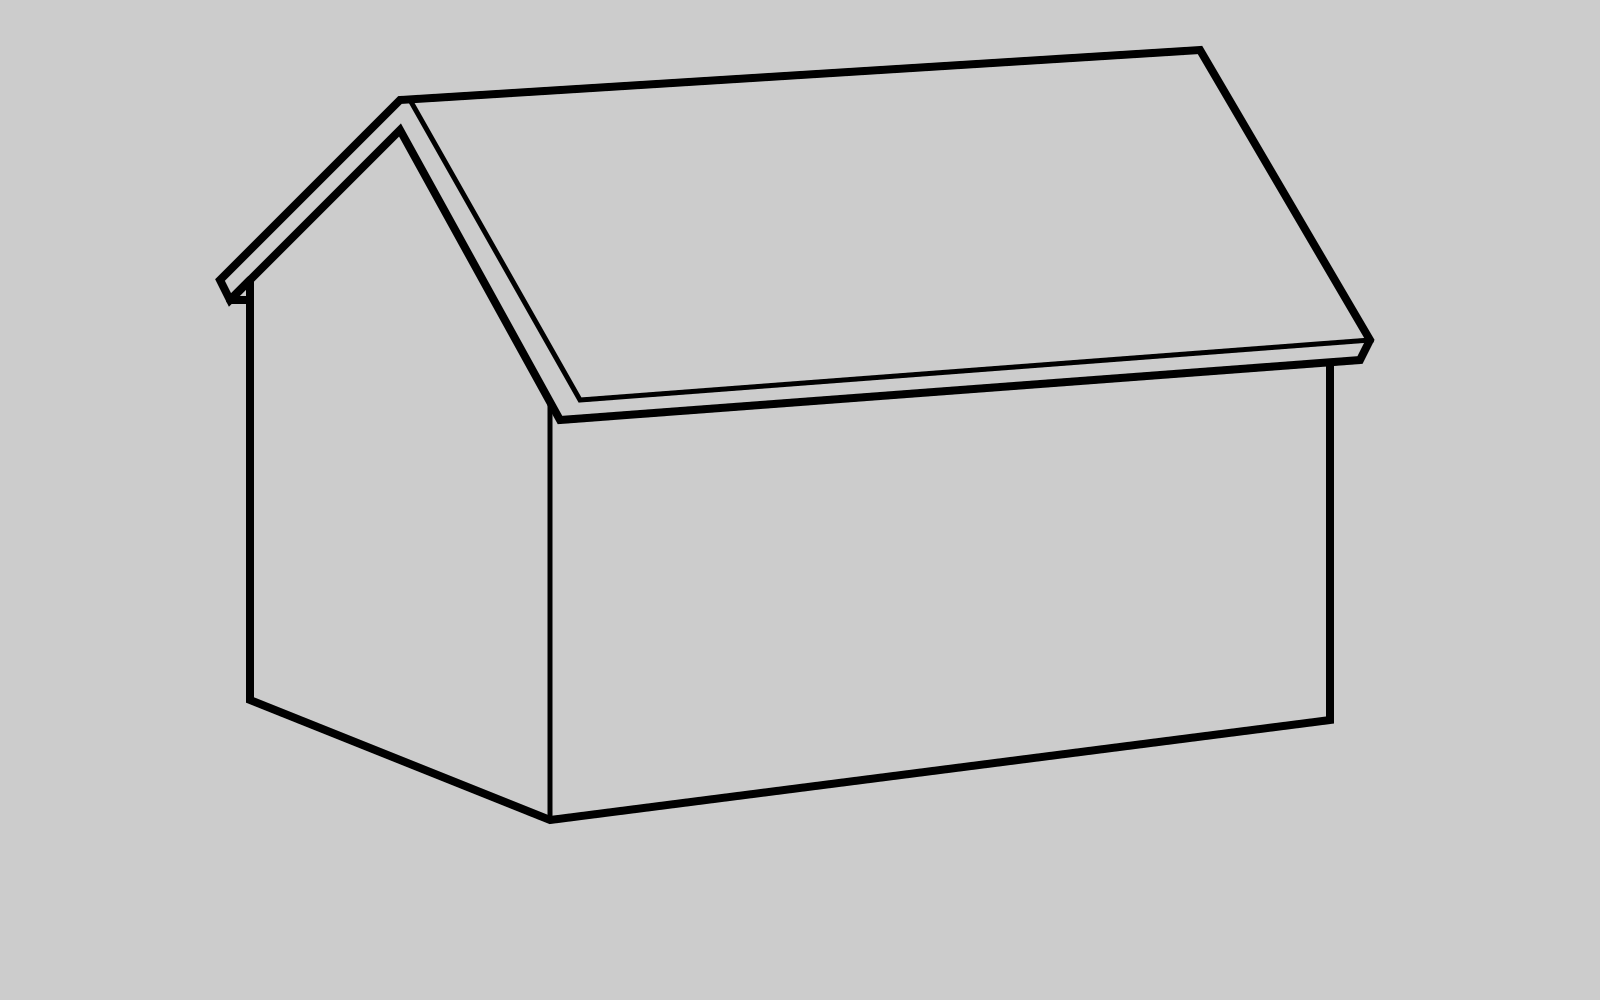
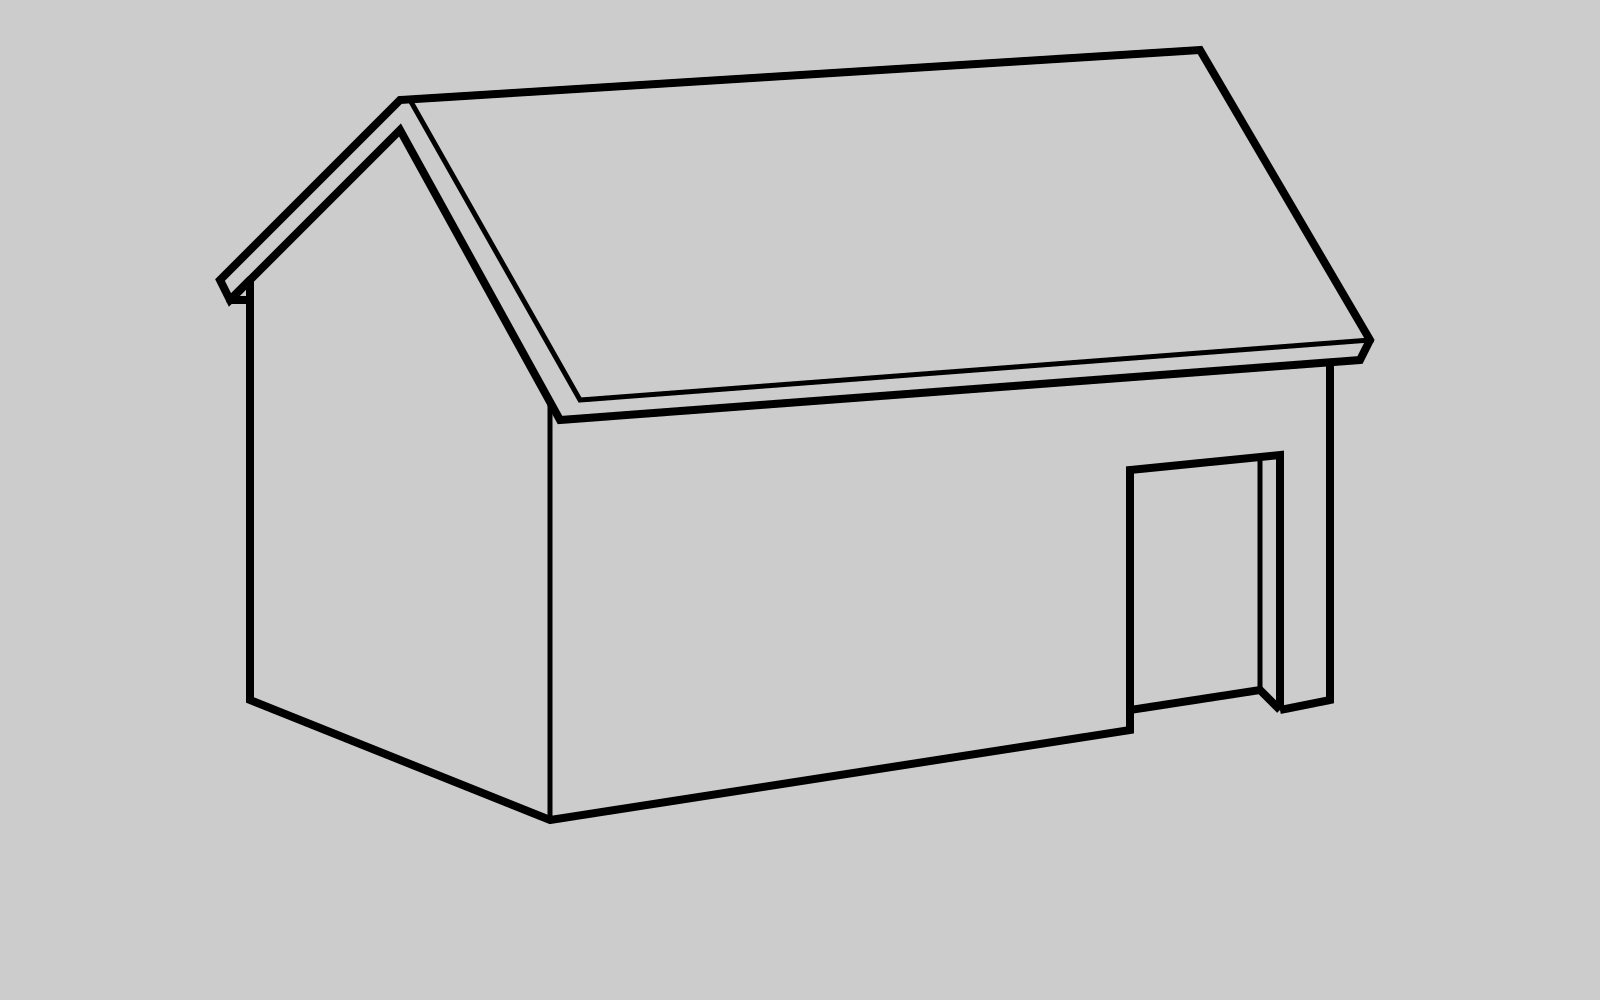
Add door frame

Changed region(s): [[0.4062, 0.434, 0.8438, 0.806], [0.375, 0.806, 0.4062, 0.837]]

diff --git a/sample_one/house.py b/sample_one/house.py
@@ -46,7 +46,20 @@ ctx.set_line_join(cairo.LINE_JOIN_MITER)
 ctx.move_to(250, 300)
 ctx.line_to(250, 700)
 ctx.line_to(550, 820)
-ctx.line_to(1330, 720)
+ctx.line_to(1130, 730)
+ctx.line_to(1130, 470)
+ctx.line_to(1280, 455)
+ctx.line_to(1280, 710)
+
+ctx.new_sub_path()
+ctx.move_to(1130, 710)
+ctx.line_to(1260, 690)
+ctx.line_to(1280, 710)
+ctx.stroke()
+ctx.close_path()
+
+ctx.line_to(1280, 710)
+ctx.line_to(1330, 700)
 ctx.line_to(1330, 360)
 ctx.stroke()
 
@@ -55,6 +68,14 @@ ctx.move_to(550, 820)
 ctx.line_to(550, 400)
 ctx.close_path()
 ctx.stroke()
+
+ctx.set_line_width(5)
+ctx.move_to(1260, 455)
+ctx.line_to(1260, 690)
+ctx.stroke()
+
+ctx.set_line_width(8)
+
 
 # Write to png
 surface.write_to_png('house.png')
